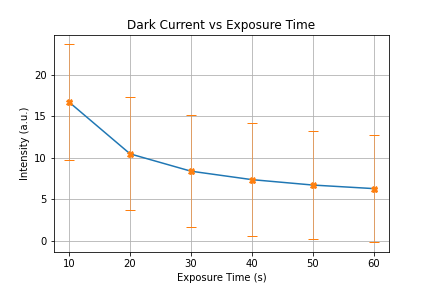
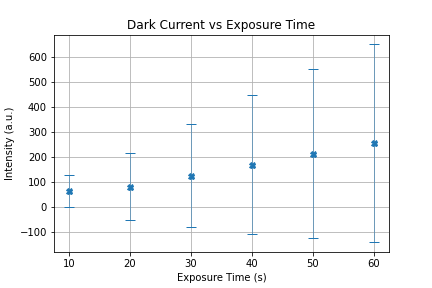
redoing dc correction

Changed region(s): [[0.0, 0.25, 0.9028, 0.75], [0.0602, 0.7812, 0.9028, 0.8438], [0.0602, 0.1875, 0.9028, 0.2188]]

diff --git a/analysis_Task7.py b/analysis_Task7.py
@@ -14,13 +14,11 @@ import matplotlib.pyplot as plt
 #%%
 
 exposure_times = (60,50,40,30,20,10)
-dark_currents = (6.2977, 6.7263, 7.3768, 8.3922, 10.476, 16.69)
-dark_currents_errs = (6.4387, 6.4851, 6.8274, 6.7501, 6.7851, 6.9507)
+dark_currents = np.array((255.27, 213.12, 170.44, 125.73, 82.267, 65.313))
+dark_currents_errs = np.array((394.05, 337.13, 278.4, 205.26, 134.44, 65.313))
+dark_current_time_averaged = dark_currents / exposure_times
+dc_error_time_avg = dark_currents_errs / exposure_times
 
-#%%
-
-
-plt.plot(exposure_times, dark_currents)
 
 
 #%%
@@ -32,6 +30,17 @@ plt.grid()
 plt.title('Dark Current vs Exposure Time')
 plt.savefig('Dark Current vs Exposure Time')
 plt.show()
+
+#%%
+
+plt.errorbar(exposure_times, dark_current_time_averaged, dc_error_time_avg, elinewidth = 0.5, capsize = 5, marker = 'X', linewidth = 0)
+plt.xlabel('Exposure Time (s)')
+plt.ylabel('Time Averaged Intensity (a.u.)')
+plt.grid()
+plt.title('Time Averaged Dark Current vs Exposure Time')
+plt.savefig('Time Averaged Dark Current vs Exposure Time')
+plt.show()
+
 
 #%%
 
@@ -53,25 +62,34 @@ plt.show()
 
 #%%
 
-stan_devs = (407.1, 393.79, 386.33, 326.82, 307.27)
+stan_devs_photon_noise = (414.87, 386.55, 367.05, 343.41, 323.04, 283.34)
 
-exposures = (10000, 9000, 8000, 7000, 6000)
+exposures = (10000, 9000, 8000, 7000, 6000, 5000)
 
-plt.plot(exposures, stan_devs, marker = 'X', linewidth = 0)
+plt.plot(exposures, stan_devs_photon_noise, marker = 'X', linewidth = 0)
 plt.grid()
 plt.xlabel('Exposures')
 plt.ylabel('Standard Deviation')
 plt.title('Photon Noise')
 plt.savefig('Photon Noise')
+plt.show()
 
 
 
 #%%
 
+relative_optical_density_noise = (1.2173, 1.4068, 1.3672, 1.3029, 1.4198, 1.0534)
 
 
+plt.plot(exposures, relative_optical_density_noise, marker = 'X', linewidth = 0)
+plt.grid()
+plt.xlabel('Exposures')
+plt.ylabel('Optical Density')
+plt.title('Relative Total Noise')
+plt.savefig('Relative Total Noise')
+plt.show()
 
-
+#%%
 
 
 
